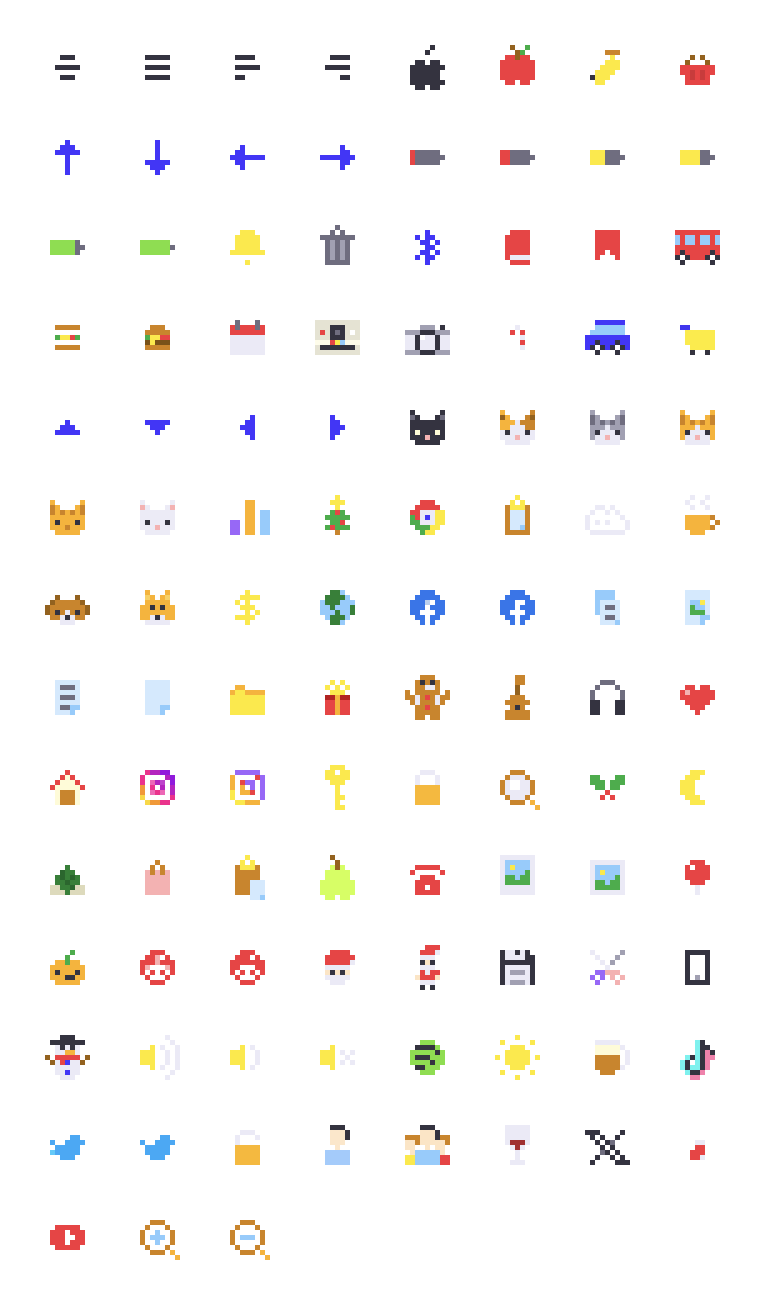
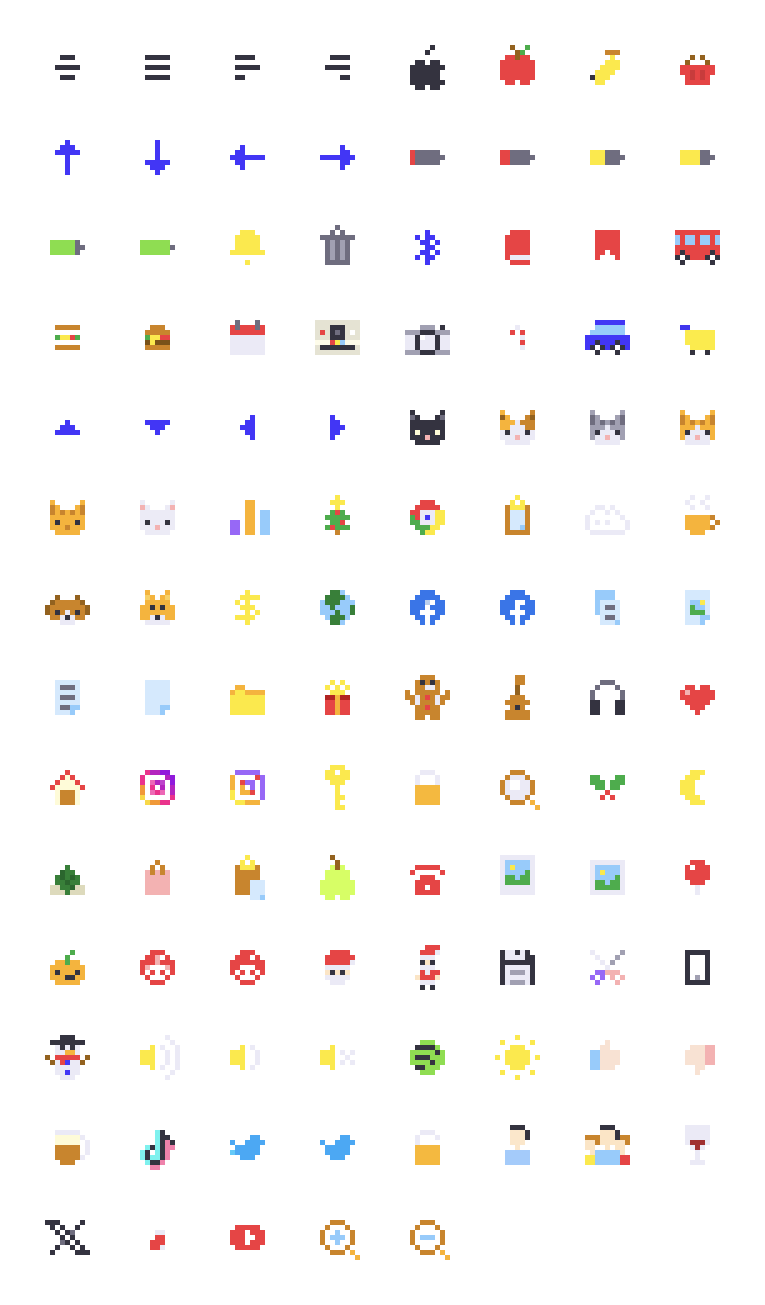
Added thumb up and thumb down

diff --git a/README.md b/README.md
@@ -121,6 +121,8 @@ This is a set of icons I made for fun. Feel free to use them as you please.
 | <img width="45" height="45" src="icons/sound-high.svg"> | sound-high.svg |
 | <img width="45" height="45" src="icons/sound-low.svg"> | sound-low.svg |
 | <img width="45" height="45" src="icons/sound-mute.svg"> | sound-mute.svg |
+| <img width="45" height="45" src="icons/thumb-up.svg"> | thumb-up.svg |
+| <img width="45" height="45" src="icons/thumb-down.svg"> | thumb-down.svg |
 | <img width="45" height="45" src="icons/unlock.svg"> | unlock.svg |
 | <img width="45" height="45" src="icons/user.svg"> | user.svg |
 | <img width="45" height="45" src="icons/users.svg"> | users.svg |
